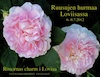
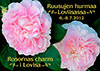
Ruusujen ohjelma 2012 FI

diff --git a/www/lwt/features/ajankohtaista/ajankohtaista_fi.html b/www/lwt/features/ajankohtaista/ajankohtaista_fi.html
@@ -1,5 +1,57 @@
 <div class="news c">
   <div class="item c">
+    <h2>Ruusujen hurmaa Loviisassa 6.-8.7.2012: "RUUSU - RAKKAUDEN KUKKA" - viikonlopun ohjelma</h2>
+    <p class="date">julkaistu 3.6.2012</p>
+    <p class="intro"><img class="thumb" src="images/news_ruusujenhurmaa-thumb.jpg"><img class="full" src="images/news_ruusujenhurmaa.jpg">Ihanat ruusut – kaikissa mahdollisissa muodoissa - valloittavat Loviisan Ruusujen hurmaa - tapahtuman aikana 6-8.hein&auml;kuuta.<br/><br/>Tapahtumaan kruunaavat kaikille avoimet Ruusuh&auml;&auml;t lauantaina 7.7. klo 16-17 <span class="readmore">Lue lis&auml;&auml;..</span></p>
+    <div class="more">
+      <p><strong>KAIKILLE AVOIMET RUUSUH&Auml;&Auml;T</strong></p>
+      <p>Kirkkoherra Veli-Matti Hynninen vihkii Ruusuh&auml;&auml;parikilpailun voittajat Patricia Wiklundin ja Pekka Palom&auml;en Loviisan vastik&auml;&auml;n remontoidussa uusgoottilaisessa kirkossa lauantaina 7.7. 2010 klo 16.00-17. Kaksikielist&auml; tilaisuutta juhlistaa musiikki- ja runonlausunta(mm. oopperalaulaja Rita Bergman ja n&auml;yttelij&auml; Maarita M&auml;kel&auml;). Jokainen h&auml;&auml;vieras saa kirkon ovelta oman ruusun ja kirkossa voi ihastella my&ouml;s tekstiilitaiteilija Tina Karvosen h&auml;&auml;parille suunnittelemaa modernia vihkiryijy&auml;. Se on Loviisan kaupungin lahja h&auml;&auml;parille.</p>
+      <p><strong>RUUSU PUUTARHASSA</strong></p>
+      <ul>
+        <li>Villa Aaltonen, Pitk&auml;kuja 12. Noin 60 eri ruusulajiketta barokkimaisen runsaassa kukkaispuutarhassa. Myynniss&auml; omajuurisia ruusuntaimia ja ruusutuotteita. Villa Sorellan ruusuinen h&auml;&auml;huone. Lounaana turkkilainen h&auml;&auml;keitto, ruusunlehdin koristeltu. Avoinna pe la su 10-17.</li>
+        <li>Kuninkaanlampi, Kuhlefeltinkatu 8. Yli 70 eri ruusu-lajiketta ihanassa lammenrantapuutarhassa, paljon englantilaisia ruusuja, ruusutuotteita. Ruusukellarikahvila. Avoinna pe la su 10-17. <a href="http://www.kuninkaanlampi.fi">&#187; www.kuninkaanlampi.fi</a></li>
+        <li>Wanha kauppa, It&auml;inen tullikatu 20. Koristemaalattu ruusukakluuni, puutarhassa ruusuja ja erilaisia jippoja , kes&auml;huoneinstallaatio sek&auml; ”Pieni essupuisto”. Kaupassa mm. ruusukirjoja ja muita puutarhakirjoja sek&auml; ruusukattauksia (astiat myynniss&auml;). Avoinna pe la su 10-17.</li>
+        <li>Tuhannen tuskan kahvila. Liisantalon vanhaan talliin rakennetussa kahvilassa ja terassilla l&ouml;ytyy pienoisruusuja, tarjoilu ruusukupeista, ruusuherkkuja ja pieni ruusukuppin&auml;yttely. Mariankatu 2 C, avoinna joka p&auml;iv&auml; 10-18. <a href="www.liisantalo.fi">&#187; www.liisantalo.fi</a></li>
+        <li>Lowisa Rosarium/Terveyskeskuksen ruusutarha/Öhmaninkatu 4. Turkulaisen ruusuasiantuntija Toini Gr&ouml;nqvistin lahjoittamat 33 vanhaa ruusua/16 eri lajia.</li>
+        <li>Pilasterien ruusupiha. Sep&auml;nkuja 8. la su 10-17. <a href="http://www.degerby.com">&#187; www.degerby.com</a></li>
+        <li>Kappeli, Kappelinpuisto. Ruusuja, ruusuteet&auml; ja virvokkeita sek&auml; ruusuaiheista taidetta. pe la su 10-17. <a href="http://www.loviisankappeli.net">&#187; www.loviisankappeli.net</a></li>
+        <li>Labbyn luomukartano Isn&auml;siss&auml; uudistaa kartanon vanhaa puistoa, johon kuuluu my&ouml;s uusia ruusuja. pe la su 10-17. Luomukauppa. <a href="http://www.labby.fi">&#187; www.labby.fi</a></li>
+        <li>Eija´s Garden – el&auml;myspuutarha Ahvenkoskella, Elim&auml;entie 74. La ja su Miten rakennan englantilaisen ruusupenkin- esitelm&auml;. Redout&eacute;n historiallisia ruusukuvia. Myym&auml;l&auml;ss&auml; hyv&auml; valikoima ruusuja, pe la su erikoishintaan. Avoinna joka p&auml;iv&auml; paitsi ma <a href="http://www.eijasgarden.fi">&#187; www.eijasgarden.fi</a></li>
+      </ul>
+      <p><strong>RUUSU TAITEESSA</strong></p>
+      <ul>
+        <li>Bongan linna, Riitta Nelimarkan Ruusujen hurmaa -teemaan tehty kuvasarja “I DID NOT PROMISE YOU A ROSE GARDEN” 2012, la – su klo 12-15. <a href="http://www.bonga.fi">&#187; www.bonga.fi</a></li>
+        <li>Klassisten veneiden aitta Laivasillalla: Les Roses De Ma Vie. Henrietta Hassinen valokuvamaalausn&auml;yttely, 2.7 – 15.7.</li>
+        <li>Salttiksen aitta Laivasillalla: Lumottu puutarha. Kaija Asikainen, Kristina Elo ja Katarina Ögård: grafiikkaa ja maalauksia 25.6.-15.7.2012.</li>
+        <li>Villa Aaltosen Villa Sorella. Kaisa Strand&eacute;nin ruusu- yms maalauksia pe-la –su 10-17.</li>
+        <li>Kappeli: loviisalaiskoululaisten t&ouml;it&auml; aiheesta Ruusu – rakkauden kukka. My&ouml;s Kaija Asikaisen, Kristina Elon ja Katarina Ögårdin ruusutauluja. pe la su 10-17</li>
+        <li>Ulrikakoti, Repin-instituutin ruusumaalauskurssi/opettajana Pietarin Kuvataideakatemian Olga Denisenko. Kuhlefeltinkatu 35. <a href="http://www.ulrikanhovi.fi">&#187; www.ulrikanhovi.fi</a>.</li>
+        <li>Loviisan seudun taideyhdistyksen ruusuinstallaatio Galleria Theodorin edess&auml;. Mariankatu 21.</li>
+        <li>Kirjasto. Kirjan&auml;yttely aiheesta ruusu, rakkaus ja h&auml;&auml;t hein&auml;kuun ajan, kirjaston aukioloaikoina. Kuningattarenkatu 24. </li>
+      </ul>
+      <p><strong>RUUSU MUSIIKISSA</strong></p>
+      <ul>
+        <li>Pyh&auml; ruusu-kirkkokonsertti, solistina Ida Wall&eacute;n, viulisti Otteliana P&ouml;yry, urut Suvi Aalto, pe klo 19.00, Loviisan kirkko.</li>
+        <li>Trubaduureja ja runonlausujia keskustan ruusupuutarhoissa la-su</li>
+        <li>Prinsessa Ruusunen Schillmarckin puistossa la 11- 15, su 11- 13, sateen sattuessa Villa Aaltosessa, Tuhannen tuskan kahvilassa tai Ölviniss&auml;.</li>
+        <li>Laivasillan Ruusujen tanssit la klo 19. Ruusuh&auml;&auml;parin h&auml;&auml;valssi, Miss Loviisa 2011- ehdokkaiden ensiesittely. Kaunein ruusumekko palkitaan. <a href="http://www.laivasilta.net">www.laivasilta.net</a></li>
+        <li>Laivasillan lasten ruusutanssit, Prinsessa Ruusunen yms su 13-15.</li>
+        <li>Ruukinmyllyn kes&auml;teatteri "Tulitikkuja lainaamassa" tarjoaa jokaiselle katsojalle ruusun la 7.7. <a href="http://www.ruukinmylly.fi/kesateatteri">&#187; www.ruukinmylly.fi/kesateatteri</a></li>
+      </ul>
+      <p><strong>RUUSURUOKAA</strong></p>
+      <ul>
+        <li>Ruusu- ja suklaasaippuaa. Merja Saarion koulutustapahtuma luonnollisen saippuan valmistuksesta kiinnostuneille, pe la su. Keskuksen Akvaario, Etel&auml;harju 2. puh 050-5112466 <a href="http://keskus-centralen.fi">&#187; www.keskus-centralen.fi</a></li>
+        <li>Ruusuj&auml;&auml;tel&ouml;&auml; ja ruusudrinkkej&auml;. Ruusumarkkinat la su. Ölvin, Rantatie 44.</li>
+        <li>HÄÄMESSUT Hotel Degerby, la 7.7 klo 10.00-17.00 N&auml;ytteilleasettajia, suunnitteluapua, ideoita, luentoja ym. <a href="http://www.degerby.com">&#187; www.degerby.com</a></li>
+        <li>Raakasuklaakurssi, Hotel Degerby su 8.8. KLO 14.00-15.00 Suklaa-alkemisti ja ravintovalmentaja Jaakko Halmetoja luennoi raakasuklaasta klo 14-15 (vapaa p&auml;&auml;sy). 15.30-17.30 Raakasuklaakurssi, hinta 25&euro; (ennakkoilmoittautuminen). Kurssille sopii 25 henkil&ouml;&auml;. Hinta sis&auml;lt&auml;&auml; raaka-aineet ja ohjauksen. Tapahtumassa voit my&ouml;s seurata suklaakonvehtien ja suklaakoristelun ty&ouml;n&auml;yt&ouml;ksi&auml;. Lis&auml;ksi myyt&auml;v&auml;n&auml; suklaan valmistuksen ty&ouml;v&auml;lineit&auml;, suklaaherkkuja, suklaak&auml;sihoitoja ym
+        <li>Ruusumenu Degerbyn ravintola Styrbordissa la su klo 11-14. Ruusuh&ouml;ysteinen saaristolaisp&ouml;yt&auml; Degerby Gilless&auml; samoin kuin Rusukahvila sen terassilla, la su 12-17. <a href="http://www.degerby.com">&#187; www.degerby.com</a></li>
+        <li>Loviisan kahviloissa ja ravintoloissa jotain ruusuista: leivos, juoma, kakku.</li>
+        <li>Loviisan V&auml;rikaupan ikkunassa ruusutapettin&auml;yttely. Kuningattarenkatu 3.</li>
+        <li>Loviisalaiskauppojen n&auml;yteikkunat kukkivat; kaupoissa esill&auml; my&ouml;s ruusutuotteita parin viikon ajan hein&auml;kuun alusta alkaen.</li>
+      </ul>
+    </div>
+  </div>
+  <div class="item c">
     <h2>Loviisan Wanhat Talot 25.-26.8.2012: "TULE MEILLE KYL&Auml;&Auml;N!"</h2>
     <p class="date">julkaistu 17.5.2012</p>
     <p class="intro"><img class="thumb" src="images/news_kylaan-thumb.jpg"><img class="full" style="margin-bottom: 2em;" src="images/news_kylaan.jpg">Loviisan
@@ -56,30 +108,7 @@
         It&auml;-Uudenmaan Osuuspankki.</p>
     </div>
   </div>
-  <div class="item c">
-    <h2>Ruusujen hurmaa Loviisassa 6.-8.7.2012: "RUUSU - RAKKAUDEN KUKKA"</h2>
-    <p class="date">julkaistu 16.1.2012</p>
-    <p class="intro"><img class="thumb" src="images/news_ruusujenhurmaa-thumb.jpg"><img class="full" style="margin-bottom: 2em;" src="images/news_ruusujenhurmaa.jpg">Hurmaavat
-      ruusut - kaikissa mahdollisissa muodoissaan - valloittavat Loviisan 6.-8. hein&auml;kuuta.<br/><br/>Ruusuja l&ouml;ytyy paitsi loviisalaisista ruusutarhoista my&ouml;s
-      runoissa, musiikissa ja taiteessa. <span class="readmore">Lue lis&auml;&auml;..</span>
-    </p>
 
-    <div class="more">
-      <p>Yksitt&auml;isten taiteilijoiden ruusu-n&auml;yttelyiden lis&auml;ksi Pietarin kuvataideakatemian professorit opettavat Repin - instituutin kursseilla ruusujen
-        pastellimaalausta ja maalarimestari Airi Kallio tutustuttaa yleis&ouml;&auml; ruusujen koristemaalauksen saloihin ja ruusu-teehen Loviisan kuulussa, kunnostuksen
-        alla olevassa Kappelissa.</p>
-      <p>Ruusu, suklaa ja Jaakko Halmetojan raakasuklaakurssit ly&ouml;v&auml;t k&auml;tt&auml; 1600-luvulla rakennetun Degegby Gille - ravintolan ruokakursseilla ja
-        ruokalistalla, jossa muutkin kukat ja yrtit maistuvat. Ruusuja l&ouml;ytyy toki muidenkin loviisalaiskahviloiden ja ravintoloiden juoma- ja herkkutarjonnassa ja
-        lauantaina 7. hein&auml;kuuta tanssitaan Laivasillalla Ruusujen tanssit.</p>
-      <p>Ruusujen historia ja kasvatus tulevat tutuiksi asiantuntijaesitelmiss&auml; ja ruusun tuoksu valloittaa suosituilla ruususaippuakursseilla. Paikallisten
-        liikkeiden valikoimista l&ouml;ytyy monenlaisia ruusuaiheita niin herkuissa, astioissa, kankaissa, tapeteissa kuin koriste-esineiss&auml;. Lapsiakaan ei ole
-        unohdettu - he p&auml;&auml;sev&auml;t ihastelemaan ihka el&auml;v&auml;&auml; prinsessa Ruususta lasten koristelemassa satupuistossa.</p>
-      <p>Ruusutapahtuman teemana on t&auml;n&auml; vuonna Ruusu - rakkauden kukka. Sen kunniaksi kutsumme kaiken kansan ihan oikeisiin Ruusuh&auml;ihin Loviisan upeaan
-        vastik&auml;&auml;n remontoituun, uusgoottilaiseen kirkkoon 7.7.2012.</p>
-      <p>Ruusuisen viikonlopun yhteydess&auml; j&auml;rjestet&auml;&auml;n my&ouml;s ensimm&auml;iset Uudenmaan h&auml;&auml;kaupunki Loviisan h&auml;&auml;messut .
-        Esittelemme my&ouml;s kaupunkimme ihanat vihkikirkot: keskustassa uusgoottilaisen kirkon lis&auml;ksi h&auml;it&auml; voi viett&auml;&auml; my&ouml;s Pernajan
-        keskiaikaisessa kivikirkossa, Liljendalin vanhassa puukirkossa tai Ruotsinpyht&auml;&auml;n Ruukin 1743 rakennetussa kirkossa, jota koristaa harvinainen Helene
-        Schjerfbeckin alttaritaulu.</p>
-    </div>
-  </div>
 </div>
+
+

diff --git a/www/lwt/lwt.less b/www/lwt/lwt.less
@@ -159,17 +159,61 @@ hr {height: 1px; border: none; background-color: #2d3f49; }
 #content .new-house p { font-size: 16px; text-align: right; margin-right: 6px; }
 #content .new-house img { vertical-align: middle; border: none; }
 
-#content .news {}
-#content .news .item { margin-bottom: 10px; padding: 10px;  border-radius: 3px; -moz-border-radius: 3px; -webkit-border-radius: 3px; background-color: rgb(240,240,240); background-color: rgba(255,255,255,0.5); height: auto; overflow: hidden;}
-#content .news .item h2 { font-size: 16px; }
-#content .news .item .intro { margin-top: 8px; }
-#content .news .item .intro img { float: left; margin: 0px 10px 4px 0px;}
-#content .news .item .intro img.full { display:none;}
-#content .news .item .date { color: rgb(128,128,128); font-family: Helvetica, sans-serif; font-size: 12px;}
-#content .news .item .more { display: none; }
-#content .news .item .more p { margin-top: 8px; }
-#content .news .item .readmore { cursor: pointer; font-weight: bold; display: inline-block; padding-left: 18px; background: transparent url('images/arrow.png') 3px 1px no-repeat; }
-#content .news .item .readmore:hover {text-decoration: underline;}
+#content {
+  .news {
+    .item {
+      margin-bottom: 10px;
+      padding: 10px;
+      border-radius: 3px;
+      -moz-border-radius: 3px;
+      -webkit-border-radius: 3px;
+      background-color: rgb(240, 240, 240);
+      background-color: rgba(255, 255, 255, 0.5);
+      height: auto;
+      overflow: hidden;
+      h2 {
+        font-size: 16px;
+      }
+      ul {
+        margin: 0.5em 0 1em 1.5em;
+        li {
+          margin-bottom: 0.5em;
+        }
+      }
+      .intro {
+        margin-top: 8px;
+        img {
+          float: left;
+          margin: 0px 10px 4px 0px;
+          &.full {
+            display: none;
+          }
+        }
+      }
+      .date {
+        color: rgb(128, 128, 128);
+        font-family: Helvetica, sans-serif;
+        font-size: 12px;
+      }
+      .more {
+        display: none;
+        p {
+          margin-top: 8px;
+        }
+      }
+      .readmore {
+        cursor: pointer;
+        font-weight: bold;
+        display: inline-block;
+        padding-left: 18px;
+        background: transparent url('images/arrow.png') 3px 1px no-repeat;
+        &:hover {
+          text-decoration: underline;
+        }
+      }
+    }
+  }
+}
 
 #ext-links {margin: 20px;}
 #ext-links img { margin-right: 6px; border: 0; }
